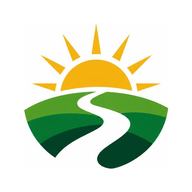
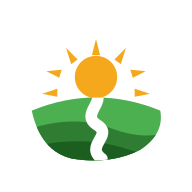
feat(brand): isotipo oficial opcion 1 (sol+colinas+camino) en toda la app + boton 'Pulso del dia'
- ParaguayLimpioLogo: reemplaza la hoja placeholder por el isotipo elegido por
  el dueño (opcion 1 'Fiel al original' del artefacto de 6). clipPath con
  useId (multiples instancias simultaneas). Sidebar/header/login lo toman via
  BrandMark sin cambios.
- Master public/brand/paraguay-limpio.svg = mismo vector; generate-icons-pl
  ahora rasteriza ese master sobre tile blanco (76%, maskable 64%). Iconos
  PWA regenerados: vector nitido, identico al logo in-app.
- Dashboard: boton del live 'RED' (ruido de dictado) -> 'Pulso del dia';
  menu 'Mas' del admin: 'En Vivo' -> 'Pulso'.

Changed region(s): [[0.125, 0.125, 0.875, 0.9062]]

diff --git a/frontend/src/brands/ParaguayLimpioLogo.tsx b/frontend/src/brands/ParaguayLimpioLogo.tsx
@@ -1,15 +1,17 @@
 /**
- * ParaguayLimpioLogo — logo SVG inline de la marca "Paraguay Limpio".
+ * ParaguayLimpioLogo — isotipo SVG inline de la marca "Paraguay Limpio".
  *
- * Placeholder de identidad hasta que Design entregue el definitivo. Es un SVG
- * (no un PNG): fondo transparente, sin el "cuadrado blanco", y los dos tonos
- * de verde son coloreables por props (mismo patrón que MunifyLogo). Una hoja
- * como símbolo de ciudad limpia / verde.
+ * Versión "Fiel al original" (opción 1 elegida por el dueño, 2026-07-31):
+ * sol dorado con rayos + colinas en tres verdes + camino blanco serpenteante,
+ * calcada del logo oficial (par-limpio/WhatsApp Image 2026-07-29). Fondo
+ * transparente — funciona sobre el sidebar oscuro y sobre claros.
  *
- *  - `color`: pinta hoja y nervadura del mismo tono.
- *  - `colorPair`: [hoja, nervadura] para mantener la composición bicolor.
- *  - sin props: usa los verdes de la marca.
+ *  - `color`: monocromatiza las colinas (el sol mantiene su dorado).
+ *  - `colorPair`: [colinas, camino] para composiciones especiales.
+ *  - sin props: colores oficiales de la marca.
  */
+import { useId } from 'react';
+
 export interface ParaguayLimpioLogoProps {
   size?: number;
   color?: string;
@@ -18,8 +20,11 @@ export interface ParaguayLimpioLogoProps {
   title?: string;
 }
 
-const LEAF = '#1b7a3d';   // verde oscuro (cuerpo)
-const VEIN = '#8fd694';   // verde claro (nervaduras)
+const SUN = '#F5A81C';
+const HILL_1 = '#4CAF50';   // verde claro (banda superior)
+const HILL_2 = '#2E7D32';   // verde medio
+const HILL_3 = '#1B5E20';   // verde oscuro (base)
+const ROAD = '#ffffff';
 
 export function ParaguayLimpioLogo({
   size = 32,
@@ -28,13 +33,20 @@ export function ParaguayLimpioLogo({
   className,
   title = 'Paraguay Limpio',
 }: ParaguayLimpioLogoProps) {
-  let leaf = LEAF;
-  let vein = VEIN;
+  // id único por instancia: el logo puede renderizarse varias veces en la
+  // misma página (sidebar + header mobile + login) y los clipPath con id
+  // repetido se pisan entre sí.
+  const clipId = useId();
+
+  let h1 = HILL_1, h2 = HILL_2, h3 = HILL_3, road = ROAD;
   if (colorPair) {
-    [leaf, vein] = colorPair;
+    [h2, road] = colorPair;
+    h1 = h2;
+    h3 = h2;
   } else if (color) {
-    leaf = color;
-    vein = color;
+    h1 = color;
+    h2 = color;
+    h3 = color;
   }
 
   return (
@@ -48,27 +60,35 @@ export function ParaguayLimpioLogo({
       aria-label={title}
     >
       <title>{title}</title>
-      {/* Cuerpo de la hoja */}
-      <path
-        fill={leaf}
-        d="M80 16C86 44 72 76 42 85 29 89 18 83 15 70 10 43 40 20 80 16Z"
-      />
-      {/* Nervadura central + venas (acento coloreable) */}
-      <path
-        fill="none"
-        stroke={vein}
-        strokeWidth="5"
-        strokeLinecap="round"
-        strokeLinejoin="round"
-        d="M73 24C55 41 37 60 26 78"
-      />
-      <path
-        fill="none"
-        stroke={vein}
-        strokeWidth="4.5"
-        strokeLinecap="round"
-        d="M53 43 66 36M42 59 55 53"
-      />
+      <defs>
+        <clipPath id={clipId}>
+          <path d="M6,60 Q50,42 94,60 Q97,76 80,87 Q60,97 34,93 Q12,88 6,60 Z" />
+        </clipPath>
+      </defs>
+      {/* Sol + rayos */}
+      <circle cx="50" cy="37" r="14.5" fill={SUN} />
+      <g fill={SUN}>
+        <polygon points="50,11 47.2,22 52.8,22" />
+        <polygon points="70.5,17 62.6,25 67,28.2" />
+        <polygon points="84,33 73.5,32 75.2,37.5" />
+        <polygon points="29.5,17 37.4,25 33,28.2" />
+        <polygon points="16,33 26.5,32 24.8,37.5" />
+        <polygon points="87,48.5 76.5,45 76.5,50.5" />
+        <polygon points="13,48.5 23.5,45 23.5,50.5" />
+      </g>
+      {/* Colinas en tres verdes + camino blanco */}
+      <g clipPath={`url(#${clipId})`}>
+        <rect x="0" y="40" width="100" height="60" fill={h1} />
+        <path d="M0,74 Q34,62 60,72 Q84,81 100,74 L100,100 L0,100 Z" fill={h2} />
+        <path d="M0,86 Q40,76 70,86 Q88,92 100,86 L100,100 L0,100 Z" fill={h3} />
+        <path
+          d="M47,45 C60,53 38,62 51,70 C62,77 42,84 54,93"
+          fill="none"
+          stroke={road}
+          strokeWidth="8"
+          strokeLinecap="round"
+        />
+      </g>
     </svg>
   );
 }

diff --git a/frontend/src/components/Layout.tsx b/frontend/src/components/Layout.tsx
@@ -1353,7 +1353,7 @@ export default function Layout() {
                     // en vivo (En Vivo). En el banner se veían mal en la PWA.
                     items.push(
                       { label: 'Conocé', icon: Sparkles, color: BRAND.primary, onClick: () => setPresentacionOpen(true) },
-                      { label: 'En Vivo', icon: Radio, color: '#ef4444', onClick: () => navigate('/gestion?live=1') },
+                      { label: 'Pulso', icon: Radio, color: '#ef4444', onClick: () => navigate('/gestion?live=1') },
                     );
                     items.push(
                       { label: 'Mapa', icon: Map, color: '#3b82f6', onClick: () => navigate('/gestion/mapa') },

diff --git a/frontend/src/pages/Dashboard.tsx b/frontend/src/pages/Dashboard.tsx
@@ -758,7 +758,7 @@ export default function Dashboard() {
           <span className="live-ring absolute inset-0 rounded-full pointer-events-none" />
           <span className="live-shimmer-btn absolute inset-0 rounded-full pointer-events-none" />
           <Radio className="h-4 w-4 relative z-10 live-radio" />
-          <span className="tracking-wider relative z-10">RED</span>
+          <span className="relative z-10">Pulso del día</span>
         </button>
         </div>
         )}
